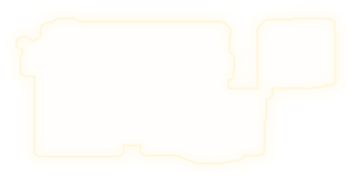
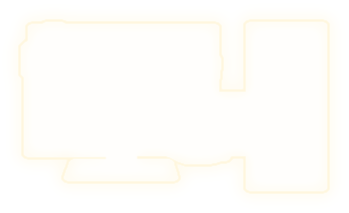
Office PC 2 outline covers the monitor stand and the whole tower like the other PCs

diff --git a/game/outlines.js b/game/outlines.js
@@ -1,2 +1,2 @@
 // Viền sáng ôm theo hình từng đồ vật, tách tự động từ ảnh phòng (GrabCut). Tọa độ góc trên trái theo hệ 1920x1080.
-const OUTLINE = {"hall_0":[261,218],"hall_1":[626,167],"hall_2":[1086,218],"hall_3":[1475,82],"hallOffice_0":[698,148],"desk_0":[172,72],"desk2_0":[53,146],"desk2_1":[1029,484],"office_0":[213,713],"office_1":[544,720],"office_2":[1014,714],"office_3":[1322,714],"office_4":[1073,436],"corner_0":[244,66],"corner_1":[969,83],"corner_2":[1139,589],"hallWater_0":[1188,628],"hallKPI_0":[6,62],"hallKPI_1":[840,52],"boss_0":[29,306],"boss_1":[1318,597],"bossRight_0":[700,39],"cellDoor_0":[420,142],"cellDoor_1":[1379,275],"cells_0":[959,98],"cells_1":[736,344],"cells_2":[609,452],"cells_3":[320,523],"hall_4":[1228,166]};
+const OUTLINE = {"hall_0":[261,218],"hall_1":[626,167],"hall_2":[1086,218],"hall_3":[1475,82],"hallOffice_0":[698,148],"desk_0":[172,72],"desk2_0":[53,146],"desk2_1":[1029,484],"office_0":[213,713],"office_1":[556,718],"office_2":[1014,714],"office_3":[1322,714],"office_4":[1073,436],"corner_0":[244,66],"corner_1":[969,83],"corner_2":[1139,589],"hallWater_0":[1188,628],"hallKPI_0":[6,62],"hallKPI_1":[840,52],"boss_0":[29,306],"boss_1":[1318,597],"bossRight_0":[700,39],"cellDoor_0":[420,142],"cellDoor_1":[1379,275],"cells_0":[959,98],"cells_1":[736,344],"cells_2":[609,452],"cells_3":[320,523],"hall_4":[1228,166]};

diff --git a/game/game.js b/game/game.js
@@ -9,7 +9,7 @@ const cv = $('#cv'), ctx = cv.getContext('2d');
 const stage = $('#stage');
 const clamp = (v, a, b) => Math.max(a, Math.min(b, v));
 // ASSET_V: đổi mỗi khi thay ảnh/âm thanh trùng tên, để trình duyệt không dùng lại bản cũ trong cache
-const ASSET_V = '20261110g';
+const ASSET_V = '20261110h';
 const A = p => 'assets/v2/' + p + '?v=' + ASSET_V;
 
 /* ---------------- Stage scaling (sharp on Retina) ---------------- */
@@ -186,7 +186,7 @@ const VIEWS = {
   office: { nav: [AR(1369, 767, -57, 'corner', 'Góc bảng ghim · đồng hồ'), AR(795, 753, -90, 'hall', 'Ra hành lang')], spots: [
     // chỉ máy số 4 (màn hình có thư mục) mới mở giao diện thư mục; 3 máy còn lại ra cảnh bàn dán note (other1)
     { x: 235, y: 735, w: 300, h: 170, label: 'Máy số 4 (của mình)', go: 'pc' },
-    { x: 545, y: 735, w: 340, h: 170, label: 'Máy bàn khác', go: 'other1' },
+    { x: 579, y: 740, w: 302, h: 167, label: 'Máy bàn khác', go: 'other1' },
     { x: 1030, y: 735, w: 290, h: 170, label: 'Máy bàn khác', go: 'other1' },
     { x: 1335, y: 735, w: 295, h: 170, label: 'Máy bàn khác', go: 'other1' },
     { x: 1080, y: 458, w: 447, h: 218, label: 'Bảng ghim và đồng hồ', go: 'corner' },

diff --git a/game/style.css b/game/style.css
@@ -20,9 +20,9 @@ button{font-family:inherit;cursor:pointer}
 /* 3 tấm bảng gỗ nhóm vẽ (source/icon): tiêu đề, 7 ô "?" và thanh nghi ngờ có sẵn trong hình (925x450) */
 #obj,#inv{position:absolute;aspect-ratio:925/450;background:center/100% 100% no-repeat;filter:drop-shadow(5px 6px 0 rgba(0,0,0,.45))}
 #obj .lbl{display:none}
-#obj{left:10px;top:2px;width:330px;background-image:url(assets/v2/ui/hud_obj.png?v=20261110g)}
+#obj{left:10px;top:2px;width:330px;background-image:url(assets/v2/ui/hud_obj.png?v=20261110h)}
 #obj-text{position:absolute;left:15%;right:8%;top:44%;bottom:10%;font-weight:700;font-size:15px;line-height:1.2;color:#2b1d0e;display:flex;align-items:center}
-#inv{left:795px;top:2px;width:330px;background-image:url(assets/v2/ui/hud_inv.png?v=20261110g)}
+#inv{left:795px;top:2px;width:330px;background-image:url(assets/v2/ui/hud_inv.png?v=20261110h)}
 .slot{position:absolute;top:52.44%;width:9.51%;height:19.56%;display:flex;align-items:center;justify-content:center}
 .slot.full{background:#f6e7c1;border:2px solid #4a2c12;border-radius:3px;overflow:hidden}
 .slot img{max-width:88%;max-height:88%;object-fit:contain}

diff --git a/game/index.html b/game/index.html
@@ -25,7 +25,7 @@
 <link rel="preconnect" href="https://fonts.googleapis.com">
 <link rel="preconnect" href="https://fonts.gstatic.com" crossorigin>
 <link href="https://fonts.googleapis.com/css2?family=Be+Vietnam+Pro:wght@400;600;800&family=VT323&display=swap" rel="stylesheet">
-<link rel="stylesheet" href="style.css?v=20261110g">
+<link rel="stylesheet" href="style.css?v=20261110h">
 </head>
 <body>
 <div id="stage">
@@ -61,7 +61,7 @@
   <div id="fade"></div>
   <div id="loading"><div>ĐANG TẢI</div><div id="load-bar"><div id="load-fill"></div></div></div>
 </div>
-<script src="outlines.js?v=20261110g"></script>
-<script src="game.js?v=20261110g"></script>
+<script src="outlines.js?v=20261110h"></script>
+<script src="game.js?v=20261110h"></script>
 </body>
 </html>
